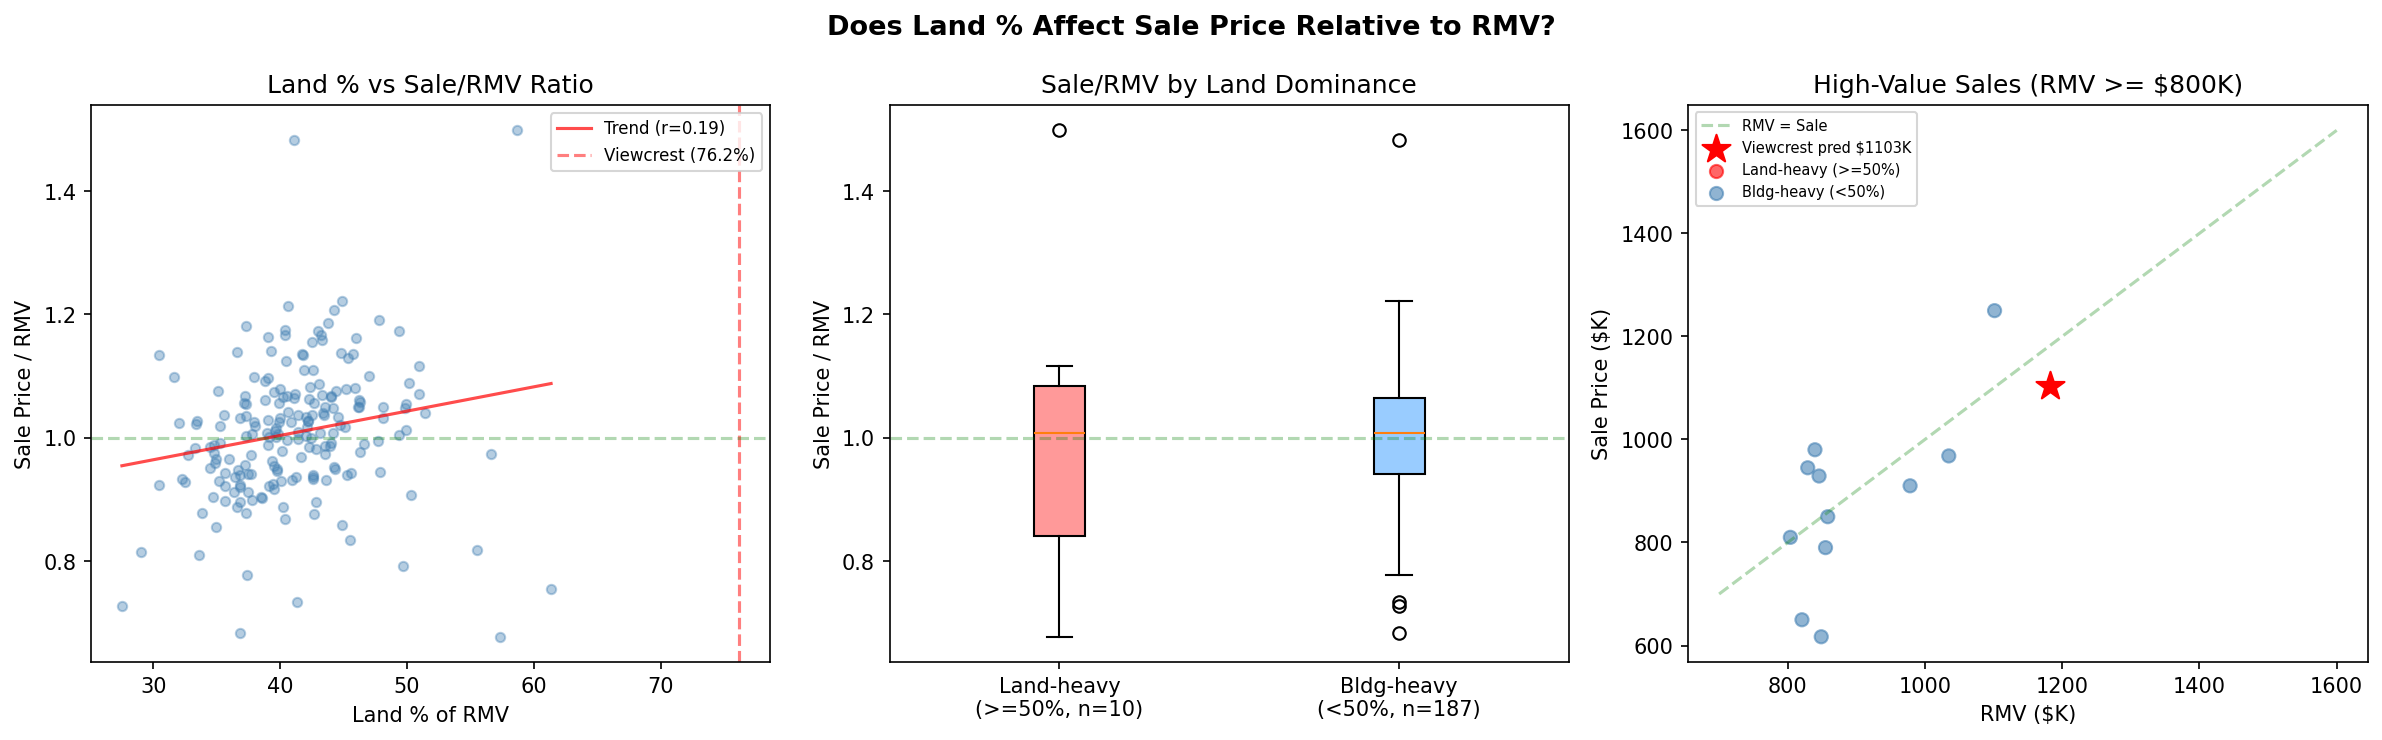
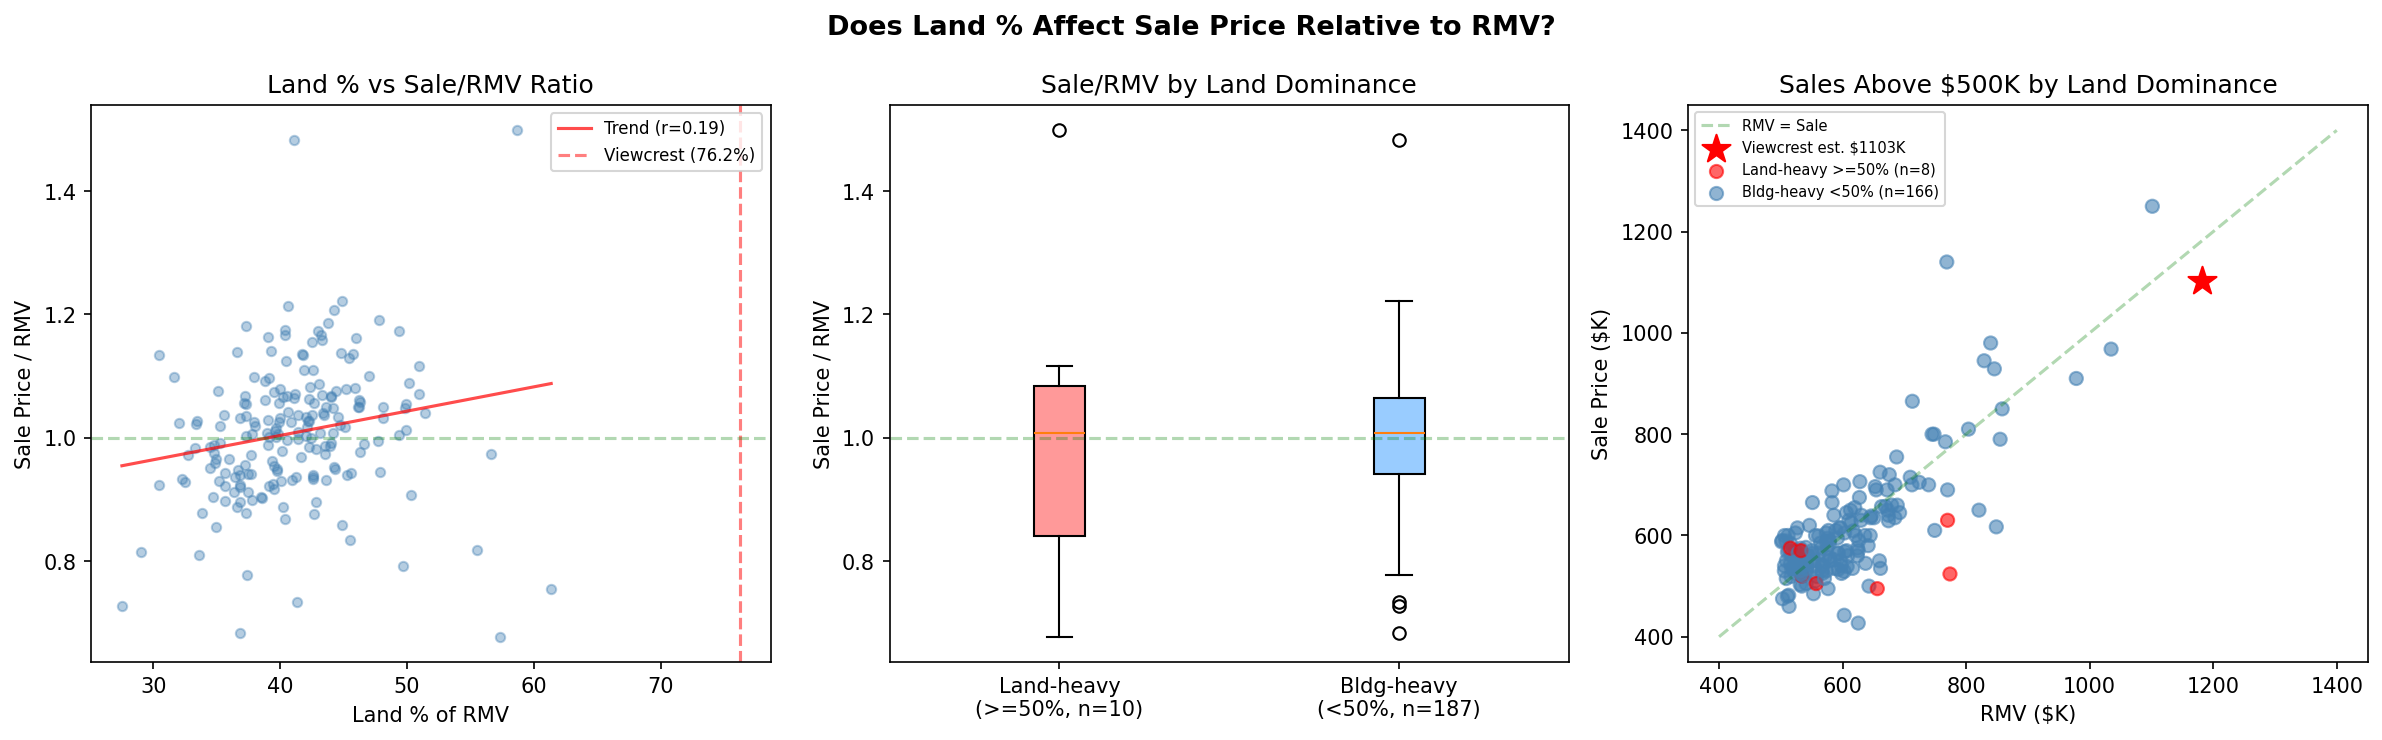
Fix sale impact chart: lower threshold to $500K to show land-heavy comps
The right panel previously used $800K threshold which had zero land-heavy
data points. Lowered to $500K to show 8 land-heavy sales intermingled
with building-heavy sales. Estimation methods still use $800K threshold
to match report tables. Script now computes both thresholds in one run.

diff --git a/viewcrest_sale_impact.py b/viewcrest_sale_impact.py
@@ -49,66 +49,72 @@ r, p = stats.pearsonr(db['LandPct'], db['SaleToRMV'])
 print(f"Correlation (Land% vs Sale/RMV): r = {r:.3f}, p = {p:.3f}")
 print()
 
-# Look at high-value properties specifically (>$800K RMV, closer to Viewcrest's range)
-high_val = db[db['RMV'] >= 800_000]
-print(f"=== High-Value Properties (RMV >= $800K) ===")
-print(f"Count: {len(high_val)}")
-if len(high_val) > 0:
-    print(f"  Median Sale/RMV: {high_val['SaleToRMV'].median():.3f}")
-    print(f"  Range: {high_val['SaleToRMV'].min():.3f} - {high_val['SaleToRMV'].max():.3f}")
+# Two thresholds: $500K for chart (includes land-heavy comps), $800K for report estimates
+high_val_500 = db[db['RMV'] >= 500_000]
+high_val_800 = db[db['RMV'] >= 800_000]
+
+for label, hv in [("$500K", high_val_500), ("$800K", high_val_800)]:
+    n_lh = len(hv[hv['LandPct'] >= 50])
+    n_bh = len(hv[hv['LandPct'] < 50])
+    print(f"=== Properties RMV >= {label} (n={len(hv)}, land-heavy={n_lh}, bldg-heavy={n_bh}) ===")
+    if len(hv) > 0:
+        print(f"  Median Sale/RMV: {hv['SaleToRMV'].median():.3f}")
+        print(f"  Range: {hv['SaleToRMV'].min():.3f} - {hv['SaleToRMV'].max():.3f}")
     print()
-    high_val_sorted = high_val.sort_values('LandPct', ascending=False)
-    print(f"{'Address':<35} {'RMV':>12} {'SalePrice':>12} {'Ratio':>7} {'Land%':>7} {'YrBlt':>6}")
-    print("-" * 85)
-    for _, row in high_val_sorted.iterrows():
-        print(f"{row['Address']:<35} ${row['RMV']:>11,.0f} ${row['SalePrice']:>11,.0f} {row['SaleToRMV']:>7.3f} {row['LandPct']:>6.1f}% {int(row['YearBuilt']):>6}")
+
+# Detail listing for $800K+ (the report's reference set)
+print(f"{'Address':<35} {'RMV':>12} {'SalePrice':>12} {'Ratio':>7} {'Land%':>7} {'YrBlt':>6}")
+print("-" * 85)
+for _, row in high_val_800.sort_values('LandPct', ascending=False).iterrows():
+    print(f"{row['Address']:<35} ${row['RMV']:>11,.0f} ${row['SalePrice']:>11,.0f} {row['SaleToRMV']:>7.3f} {row['LandPct']:>6.1f}% {int(row['YearBuilt']):>6}")
 
 # Regression: what does our model predict for Viewcrest?
 print()
 print(f"=== Viewcrest Sale Price Estimates ===")
 print()
 
-# Method 1: Overall regression (from our earlier analysis)
+# Method 1: Overall regression (all sales)
 slope, intercept, r_val, p_val, std_err = stats.linregress(db['RMV'], db['SalePrice'])
 pred_overall = slope * 1_181_560 + intercept
-print(f"Method 1 - Overall regression (all sales):")
+print(f"Method 1 - Overall regression (all sales, slope {slope:.3f}):")
 print(f"  Predicted sale price: ${pred_overall:,.0f}")
-print(f"  (slope={slope:.3f}, intercept=${intercept:,.0f}, r={r_val:.3f})")
 
-# Method 2: High-value only regression
-if len(high_val) >= 5:
-    slope2, intercept2, r2, p2, se2 = stats.linregress(high_val['RMV'], high_val['SalePrice'])
+# Method 2: High-value only regression ($800K+, matches report)
+if len(high_val_800) >= 5:
+    slope2, intercept2, r2, p2, se2 = stats.linregress(high_val_800['RMV'], high_val_800['SalePrice'])
     pred_high = slope2 * 1_181_560 + intercept2
-    print(f"\nMethod 2 - High-value regression (RMV >= $800K):")
+    print(f"\nMethod 2 - High-value regression (RMV >= $800K, n={len(high_val_800)}):")
     print(f"  Predicted sale price: ${pred_high:,.0f}")
     print(f"  (slope={slope2:.3f}, intercept=${intercept2:,.0f}, r={r2:.3f})")
 
-# Method 3: Median ratio of high-value properties
-if len(high_val) > 0:
-    med_ratio = high_val['SaleToRMV'].median()
-    pred_ratio = med_ratio * 1_181_560
-    print(f"\nMethod 3 - Median high-value Sale/RMV ratio ({med_ratio:.3f}):")
+# Method 3: Median ratio of $800K+ properties (matches report)
+if len(high_val_800) > 0:
+    med_ratio_800 = high_val_800['SaleToRMV'].median()
+    pred_ratio = med_ratio_800 * 1_181_560
+    print(f"\nMethod 3 - Median high-value Sale/RMV ratio (RMV >= $800K, ratio={med_ratio_800:.3f}):")
     print(f"  Predicted sale price: ${pred_ratio:,.0f}")
 
-# Method 4: Land-heavy subset
+# Method 4: Land-heavy subset (all prices)
 if len(land_heavy) >= 5:
     med_land_ratio = land_heavy['SaleToRMV'].median()
     pred_land = med_land_ratio * 1_181_560
     print(f"\nMethod 4 - Land-dominant properties median ratio ({med_land_ratio:.3f}):")
     print(f"  Predicted sale price: ${pred_land:,.0f}")
 
-# Confidence interval based on high-value sales
-if len(high_val) >= 5:
-    ratios = high_val['SaleToRMV']
+# Confidence interval based on $800K+ sales
+if len(high_val_800) >= 5:
+    ratios = high_val_800['SaleToRMV']
     low_ci = ratios.quantile(0.25) * 1_181_560
     high_ci = ratios.quantile(0.75) * 1_181_560
-    print(f"\nInterquartile range (25th-75th pctile of high-value ratios):")
+    print(f"\nInterquartile range (25th-75th pctile of $800K+ ratios):")
     print(f"  ${low_ci:,.0f} - ${high_ci:,.0f}")
-
     extreme_low = ratios.min() * 1_181_560
     extreme_high = ratios.max() * 1_181_560
     print(f"Full range observed:")
     print(f"  ${extreme_low:,.0f} - ${extreme_high:,.0f}")
+
+# Use $500K threshold for chart (includes land-heavy comps)
+high_val = high_val_500
 
 # Visualization
 fig, axes = plt.subplots(1, 3, figsize=(16, 5))
@@ -140,20 +146,22 @@ ax.axhline(1.0, color='green', linestyle='--', alpha=0.3)
 ax.set_ylabel('Sale Price / RMV')
 ax.set_title('Sale/RMV by Land Dominance')
 
-# 3. High-value sales: RMV vs Sale Price with Viewcrest prediction
+# 3. Sales >= $500K: RMV vs Sale Price with Viewcrest prediction
 ax = axes[2]
 if len(high_val) > 0:
     colors = ['red' if lp >= 50 else 'steelblue' for lp in high_val['LandPct']]
     ax.scatter(high_val['RMV'] / 1000, high_val['SalePrice'] / 1000, c=colors, alpha=0.6, s=40)
-    ax.plot([700, 1600], [700, 1600], 'g--', alpha=0.3, label='RMV = Sale')
+    ax.plot([400, 1400], [400, 1400], 'g--', alpha=0.3, label='RMV = Sale')
     ax.scatter([1181.56], [pred_overall / 1000], color='red', marker='*', s=200, zorder=5,
-               label=f'Viewcrest pred ${pred_overall/1000:.0f}K')
+               label=f'Viewcrest est. ${pred_overall/1000:.0f}K')
     # Add legend entries for colors
-    ax.scatter([], [], c='red', alpha=0.6, s=40, label='Land-heavy (>=50%)')
-    ax.scatter([], [], c='steelblue', alpha=0.6, s=40, label='Bldg-heavy (<50%)')
+    n_lh = len(high_val[high_val['LandPct'] >= 50])
+    n_bh = len(high_val[high_val['LandPct'] < 50])
+    ax.scatter([], [], c='red', alpha=0.6, s=40, label=f'Land-heavy >=50% (n={n_lh})')
+    ax.scatter([], [], c='steelblue', alpha=0.6, s=40, label=f'Bldg-heavy <50% (n={n_bh})')
     ax.set_xlabel('RMV ($K)')
     ax.set_ylabel('Sale Price ($K)')
-    ax.set_title('High-Value Sales (RMV >= $800K)')
+    ax.set_title('Sales Above $500K by Land Dominance')
     ax.legend(fontsize=7)
 
 plt.tight_layout()
